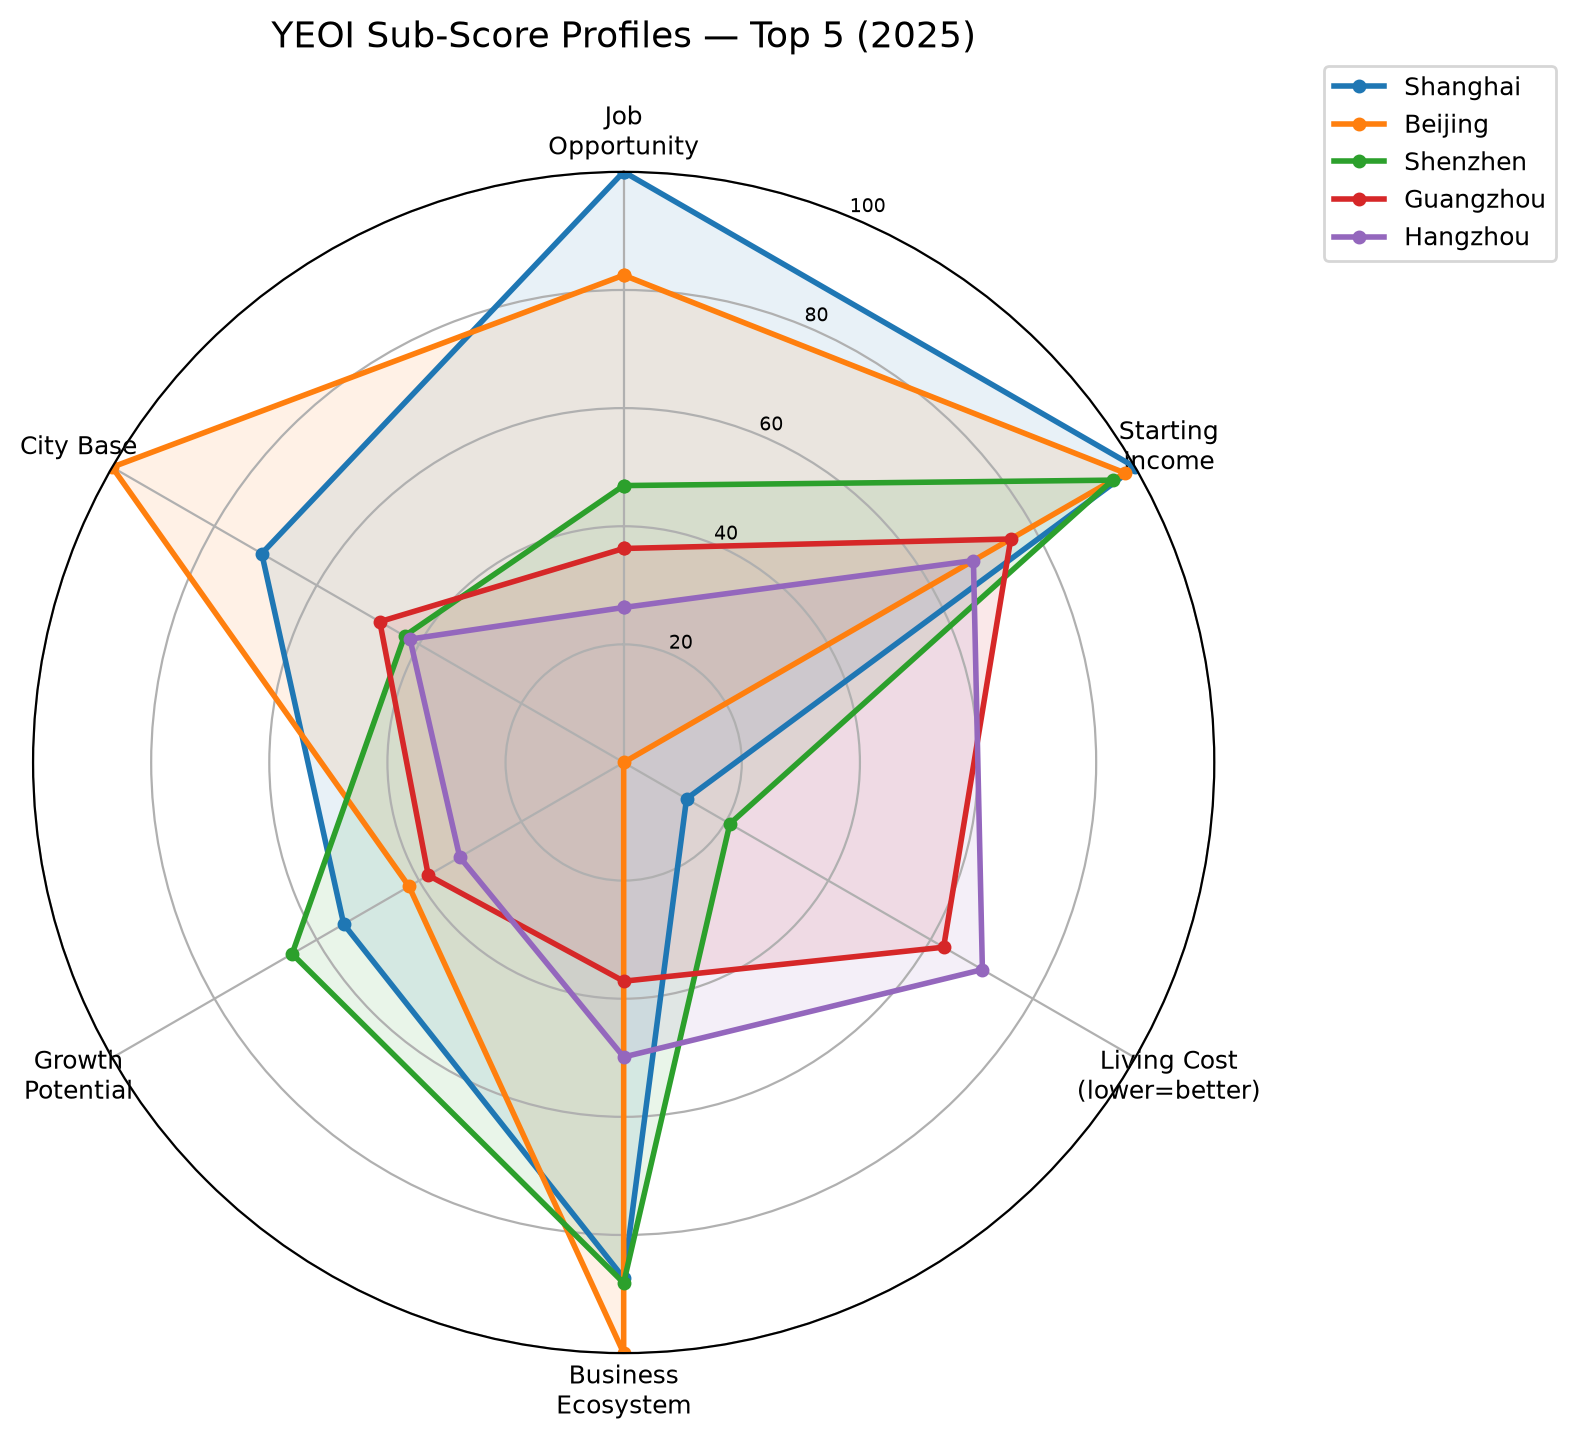
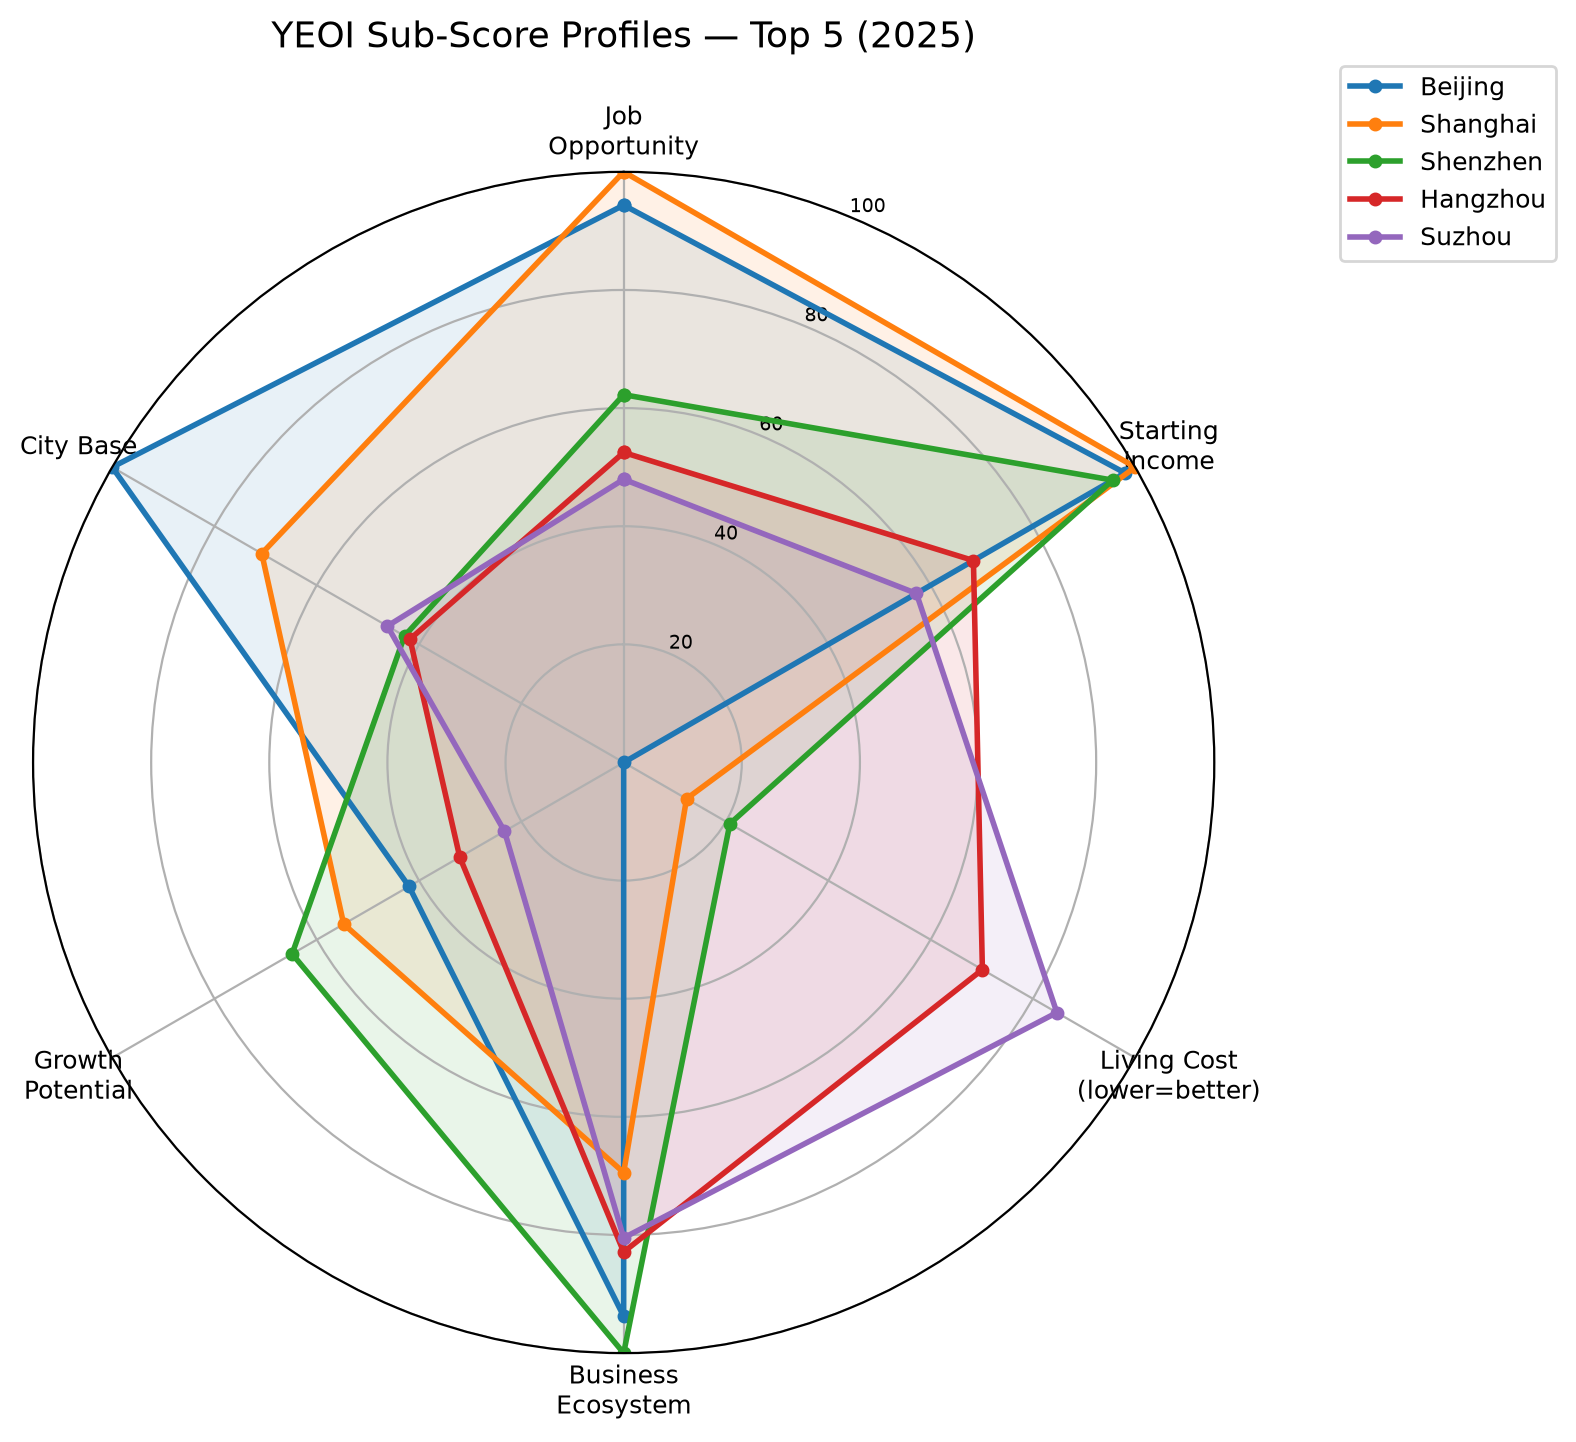
update README.md

diff --git a/README.md b/README.md
@@ -75,11 +75,11 @@ Third-party data (job postings, rent) enters the main ranking only after passing
 
 | Rank | City | YEOI Score | Job | Income | Living Cost | Business | Growth | City Base |
 |------|------|-----------|-----|--------|-------------|----------|--------|-----------|
-| 1 | Shanghai | 72.5 | 100.0 | 100.0 | 12.3 | 87.3 | 54.7 | 70.8 |
-| 2 | Beijing | 70.3 | 82.5 | 98.0 | 0.0 | 100.0 | 42.0 | 100.0 |
-| 3 | Shenzhen | 61.0 | 46.9 | 95.6 | 20.8 | 88.1 | 64.8 | 42.8 |
-| 4 | Guangzhou | 50.9 | 36.2 | 75.7 | 62.6 | 37.0 | 38.2 | 47.7 |
-| 5 | Hangzhou | 50.3 | 26.2 | 68.4 | 70.1 | 49.9 | 32.0 | 41.8 |
+| 1 | Beijing | 71.4 | 94.4 | 98.0 | 0.0 | 93.8 | 42.0 | 100.0 |
+| 2 | Shanghai | 68.9 | 100.0 | 100.0 | 12.3 | 69.4 | 54.7 | 70.8 |
+| 3 | Shenzhen | 66.5 | 62.3 | 95.6 | 20.8 | 100.0 | 64.8 | 42.8 |
+| 4 | Hangzhou | 62.2 | 52.5 | 68.4 | 70.1 | 82.9 | 32.0 | 41.8 |
+| 5 | Suzhou | 61.0 | 47.9 | 57.2 | 84.7 | 80.5 | 23.3 | 46.2 |
 
 ![YEOI Ranking 2025](reports/figures/yeoi_ranking_2025.png)
 
@@ -89,7 +89,7 @@ Sub-score radar chart for the top 5 cities in 2025, revealing each city's streng
 
 ![YEOI Radar 2025](reports/figures/yeoi_radar_2025.png)
 
-Beijing and Shanghai dominate on job opportunity and income but score lowest on living cost affordability. Guangzhou and Hangzhou offer a more balanced profile with significantly lower housing pressure.
+Beijing and Shanghai dominate on job opportunity and income but score lowest on living cost affordability. Hangzhou and Suzhou offer a more balanced profile with significantly lower housing pressure.
 
 ## Income vs Housing Cost
 
